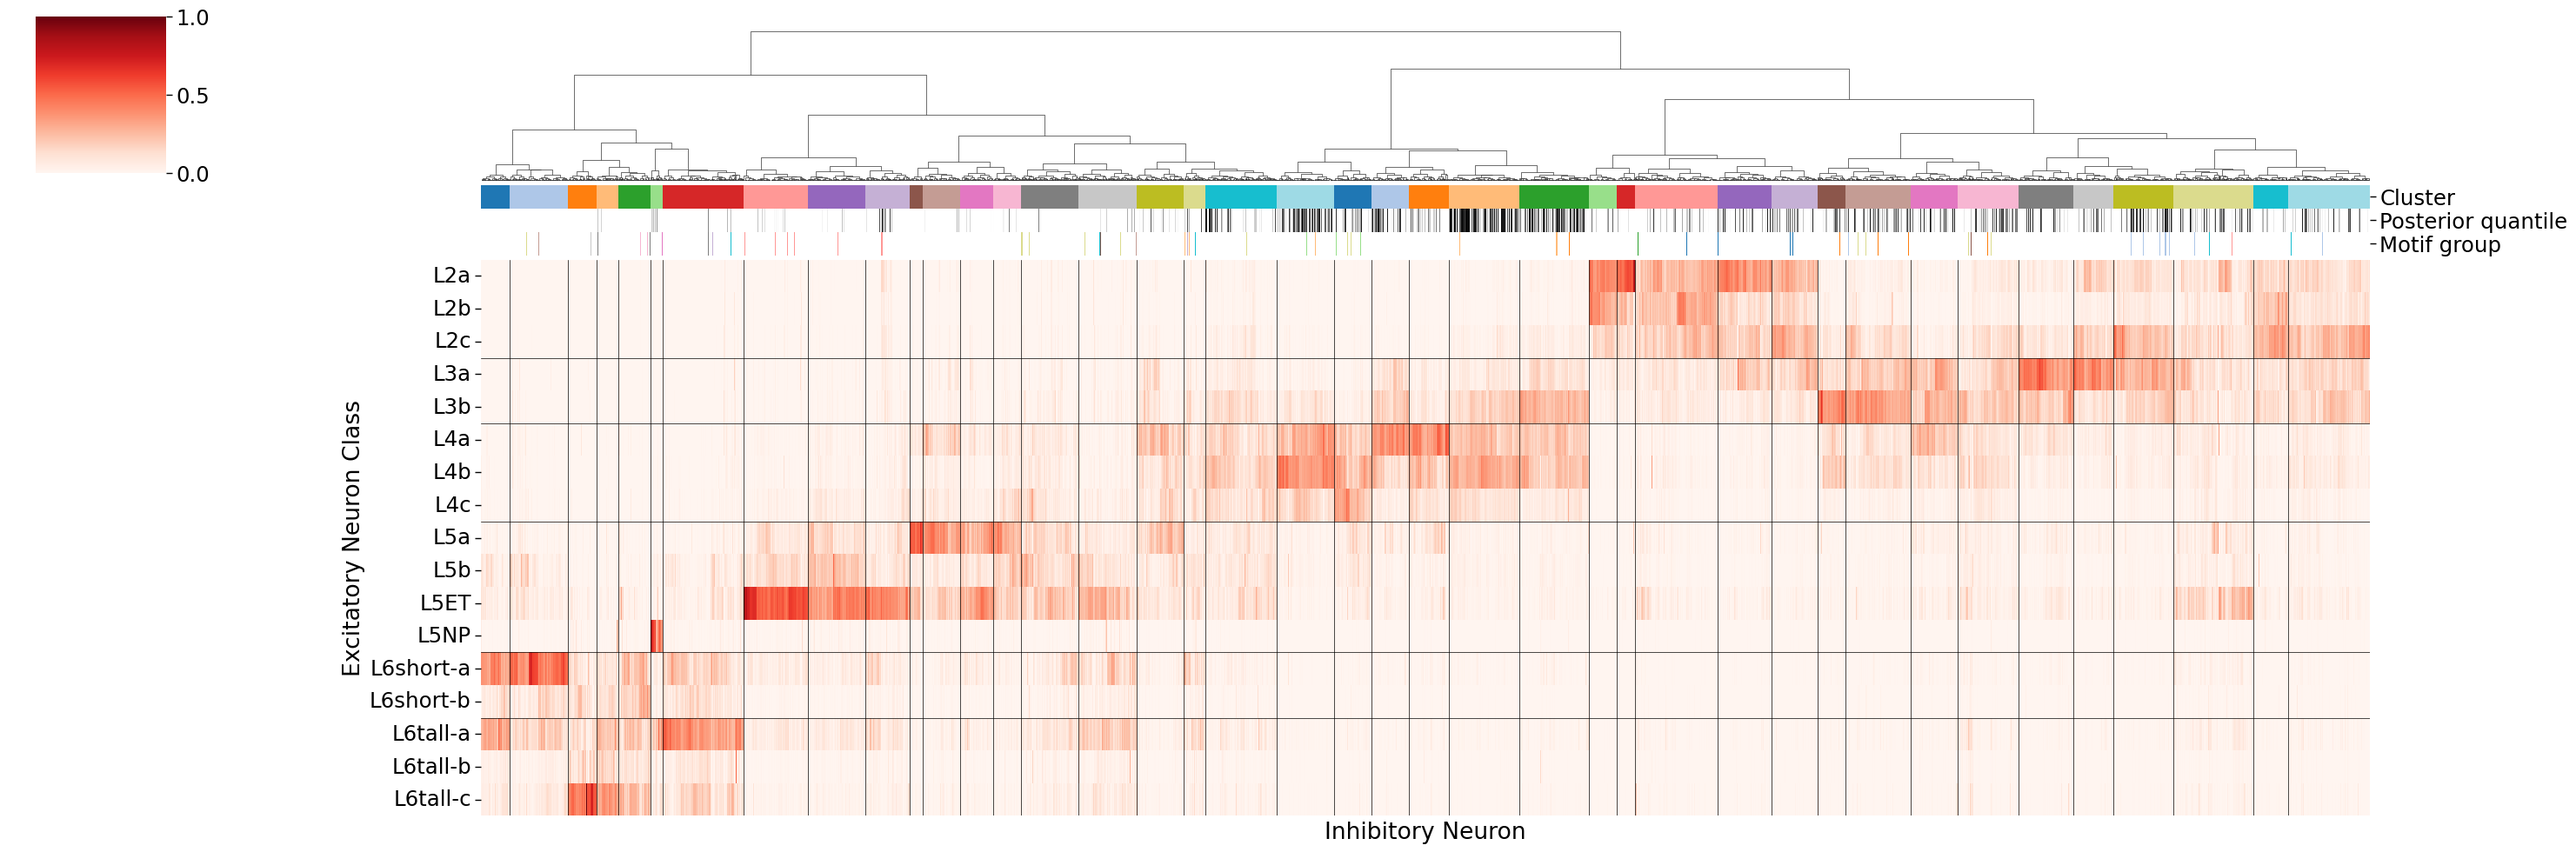
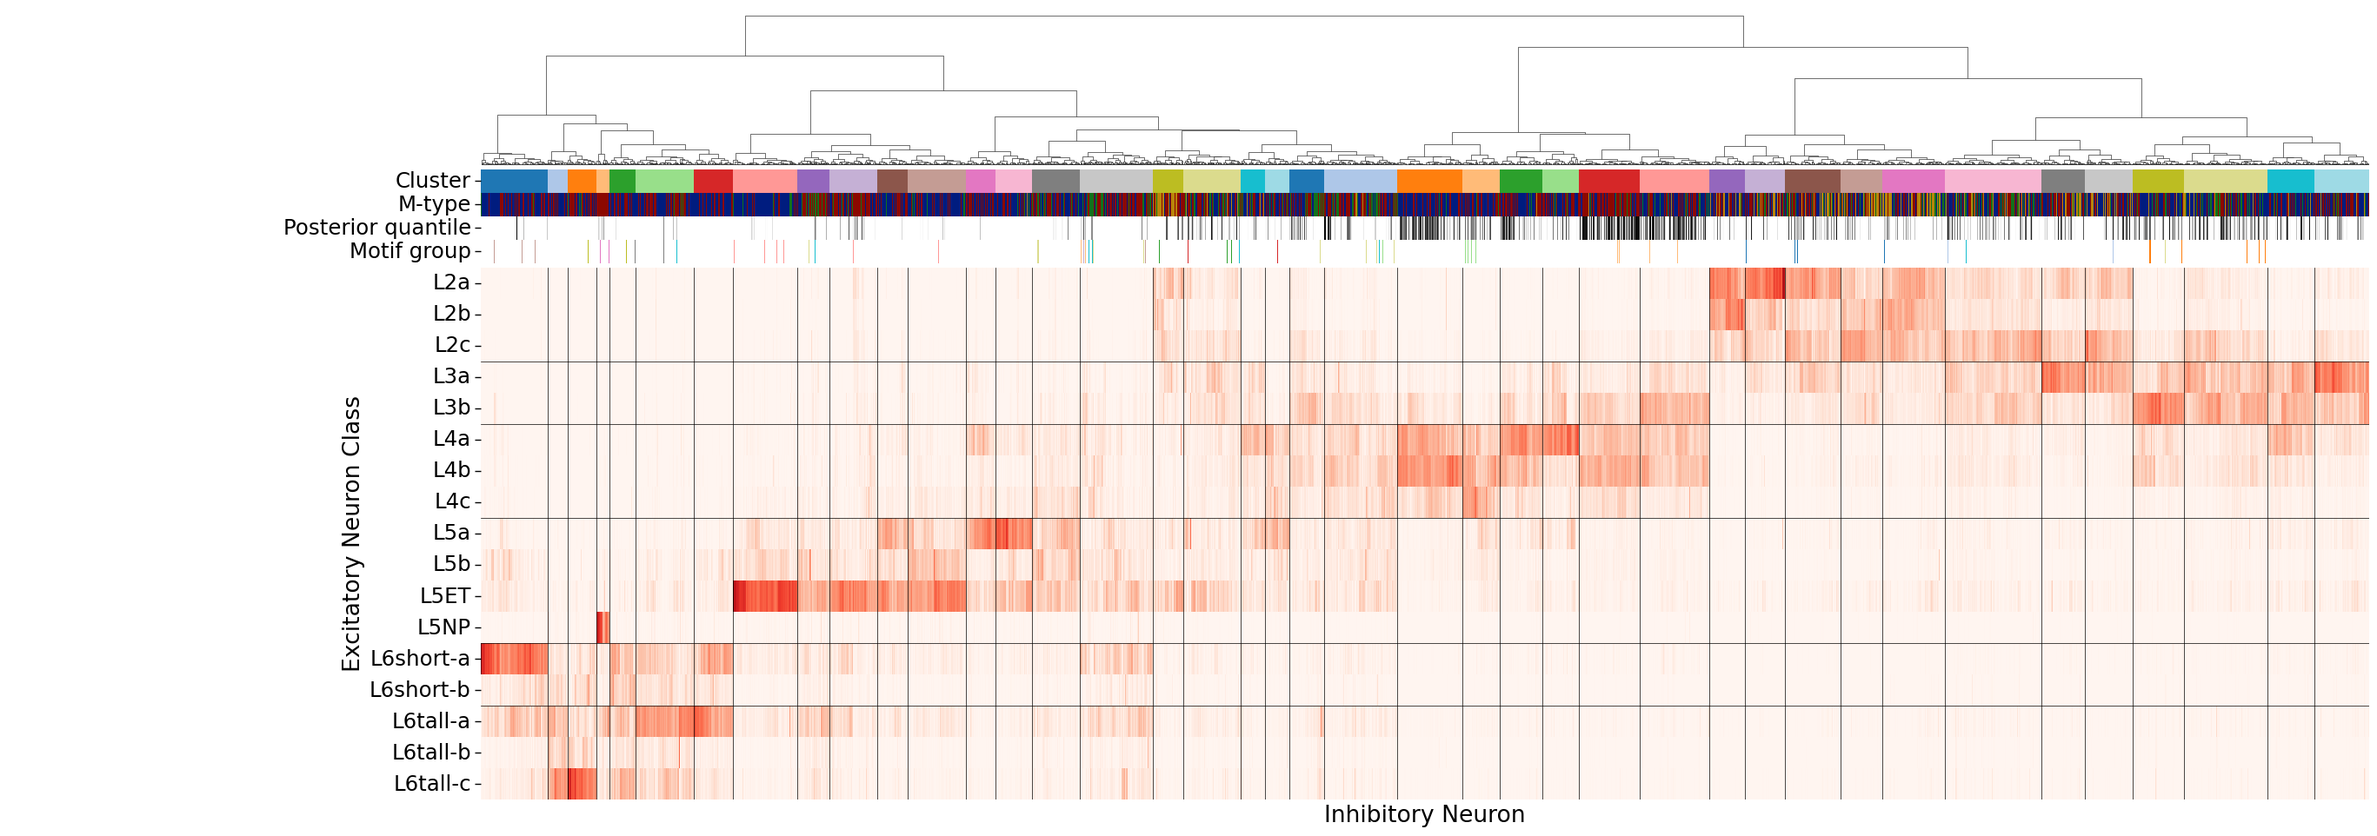
stash

diff --git a/experiments/state_prediction_heuristics.py b/experiments/state_prediction_heuristics.py
@@ -11,7 +11,6 @@ import numpy as np
 import pandas as pd
 import pyvista as pv
 import seaborn as sns
-from giskard.plot import MatrixGrid
 from joblib import Parallel, delayed
 from matplotlib.colors import LinearSegmentedColormap, ListedColormap, Normalize
 from mpl_toolkits.axes_grid1 import make_axes_locatable
@@ -34,9 +33,9 @@ from sklearn.preprocessing import QuantileTransformer
 from tqdm import tqdm
 from tqdm_joblib import tqdm_joblib
 
-from pkg.constants import MTYPES_TABLE, OUT_PATH
+from pkg.constants import OUT_PATH
 from pkg.plot import savefig, set_context
-from pkg.utils import load_casey_palette, load_manifest, load_mtypes, start_client
+from pkg.utils import load_manifest, load_mtypes, start_client
 
 # %%
 
@@ -720,7 +719,6 @@ y_scores = lda.decision_function(X)
 fig, ax = plt.subplots(figsize=(6, 6))
 sns.histplot(y_scores, ax=ax)
 
-
 qt = QuantileTransformer(n_quantiles=100, output_distribution="uniform")
 qt.fit(y_scores.reshape(-1, 1))
 
@@ -732,13 +730,6 @@ sns.move_legend(ax, loc="upper left", title="Euc. distance < 0.2")
 ax.set(xlabel="Log posterior ratio")
 ax.axvline(0, color="black", lw=1, ls="--")
 savefig("lda_decision_function", fig, file_name, doc_save=True)
-
-# %%
-
-y_posteriors = lda.predict_proba(X)[:, 1]
-
-fig, ax = plt.subplots(figsize=(6, 6))
-sns.histplot(y_posteriors, ax=ax)
 
 # %%
 precisions, recalls, thresholds = precision_recall_curve(
@@ -819,15 +810,10 @@ for file in tqdm(files):
         post_synapses.append(chunk_post_synapses)
 post_synapses = pd.concat(post_synapses)
 
-# %%
 pre_synapses["post_mtype"] = pre_synapses["post_pt_root_id"].map(mtypes["cell_type"])
-
-# %%
 
 pre_synapses = pre_synapses.query("pre_pt_root_id != post_pt_root_id")
 post_synapses = post_synapses.query("pre_pt_root_id != post_pt_root_id")
-
-# %%
 
 n_pre_synapses = (
     pre_synapses.groupby("pre_pt_root_id").size().reindex(all_inhib_roots).fillna(0)
@@ -879,18 +865,6 @@ sns.histplot(x=y_scores_new, ax=ax)
 ax.set_xlabel("Log posterior ratio")
 
 savefig("new_log_posterior_ratio", fig, file_name, doc_save=True)
-
-# %%
-X_trans_new = lda.transform(X_new)
-
-remapped_y = np.vectorize({True: "old", False: "old"}.get)(y)
-labels = np.array(remapped_y.tolist() + ["new"] * len(X_new))
-
-X_trans_combined = np.concatenate((X_trans, X_trans_new), axis=0).ravel()
-
-fig, ax = plt.subplots(figsize=(6, 6))
-
-sns.histplot(x=X_trans_new.ravel(), ax=ax)
 
 # %%
 
@@ -1015,7 +989,17 @@ pre_synapses["pre_log_odds_quant"] = pre_synapses["pre_pt_root_id"].map(
 # meta model thingy
 # include them in the clustering regardless of the posterior
 # see what cluster centroids look like relative to these cells
+# %%
 
+from giskard.plot import MatrixGrid
+
+from pkg.utils import load_casey_palette, load_mtypes
+
+manifest = load_manifest()
+
+ctypes = manifest["ctype"]
+
+casey_palette = load_casey_palette()
 
 # %%
 
@@ -1060,8 +1044,6 @@ label_order = [
 
 props_by_mtype = props_by_mtype.loc[:, label_order]
 
-sns.clustermap(props_by_mtype.T, xticklabels=False, row_cluster=False, figsize=(20, 10))
-
 # %%
 
 method = "ward"
@@ -1088,10 +1070,6 @@ label_ranking = means.mul(means.columns).sum(axis=1).sort_values()
 
 new_label_map = dict(zip(labels, label_ranking.index.get_indexer_for(labels)))
 
-# %%
-manifest = load_manifest()
-ctypes = manifest["ctype"]
-
 
 # %%
 
@@ -1100,14 +1078,20 @@ set_context(font_scale=2)
 
 colors = sns.color_palette("tab20", n_colors=k)
 palette = dict(zip(np.arange(1, k + 1), colors))
-color_labels = labels.map(palette).rename("Cluster")
+
+color_labels = labels.map(palette).rename("Cluster").copy()
 
 color_labels = color_labels.to_frame()
+
+color_labels["M-type"] = (
+    color_labels.index.to_series().map(mtypes["cell_type"]).map(casey_palette)
+)
+
 color_labels["Posterior quantile"] = labeled_inhib_features.loc[
     color_labels.index, "log_odds_quant"
 ]
 
-norm = Normalize(vmin=0.7, vmax=1)
+norm = Normalize(vmin=threshold, vmax=1)
 
 # colormap that is increasing reds from 0 to 1
 colors = [(1, 1, 1), (0, 0, 0)]
@@ -1119,15 +1103,16 @@ color_labels["Posterior quantile"] = color_labels["Posterior quantile"].map(
 
 color_labels["Motif group"] = color_labels.index.to_series().map(ctypes).map(palette)
 
-
 cgrid = sns.clustermap(
     props_by_mtype.T,
     cmap="Reds",
-    figsize=(30, 10),
+    figsize=(25, 10),
     row_cluster=False,
     col_colors=color_labels,
     col_linkage=linkage_matrix,
     xticklabels=False,
+    cbar_pos=None,
+    dendrogram_ratio=(0, 0.2),
 )
 ax = cgrid.ax_heatmap
 
@@ -1145,21 +1130,121 @@ for shift in shift_ilocs:
     ax.axvline(shift, color="black", lw=0.5)
 ax.set(xlabel="Inhibitory Neuron", ylabel="Excitatory Neuron Class")
 
+
+# final touches
+label_pos = labels.rename("label").to_frame().copy().loc[props_by_mtype.index]
+label_pos["pos"] = np.arange(len(label_pos))
+positions_by_label = label_pos.groupby("label")["pos"].mean()
+
+ax.set_xticks(positions_by_label.values)
+ax.set_xticklabels(positions_by_label.index)
+
+
 props_by_mtype.drop("label", axis=1, inplace=True)
 
 y_borders = [3, 5, 8, 12, 14]
 for y_border in y_borders:
     ax.axhline(y_border, color="black", lw=0.5)
 
-plt.savefig("excitatory_inhibitory_clustermap_w_tree.png", bbox_inches="tight")
+cgrid.ax_col_colors.yaxis.tick_left()
+
+savefig(
+    f"excitatory_inhibitory_clustermap_w_tree-metric={metric}-method={method}",
+    cgrid.figure,
+    folder="state_prediction_heuristics",
+    doc_save=True,
+)
+
+
+# colors = sns.color_palette("tab20", n_colors=k)
+# palette = dict(zip(np.arange(1, k + 1), colors))
+# color_labels = labels.map(palette).rename("Cluster")
+
+# color_labels = color_labels.to_frame()
+
+# color_labels["M-type"] = (
+#     color_labels.index.to_series().map(mtypes["cell_type"]).map(casey_palette)
+# )
+
+# color_labels["Posterior quantile"] = labeled_inhib_features.loc[
+#     color_labels.index, "log_odds_quant"
+# ]
+
+# norm = Normalize(vmin=threshold, vmax=1)
+
+# # colormap that is increasing reds from 0 to 1
+# colors = [(1, 1, 1), (0, 0, 0)]
+# cmap = LinearSegmentedColormap.from_list("custom", colors)
+
+# color_labels["Posterior quantile"] = color_labels["Posterior quantile"].map(
+#     lambda x: cmap(norm(x))
+# )
+
+# color_labels["Motif group"] = color_labels.index.to_series().map(ctypes).map(palette)
+
+sort_bys = ["label", "log_odds_quant"]
+props_by_mtype["label"] = labels.map(new_label_map)
+props_by_mtype["log_odds_quant"] = labeled_inhib_features.loc[
+    props_by_mtype.index, "log_odds_quant"
+]
+props_by_mtype = props_by_mtype.sort_values(sort_bys)
+props_by_mtype.drop(sort_bys, axis=1, inplace=True)
+color_labels = color_labels.loc[props_by_mtype.index]
+
+cgrid = sns.clustermap(
+    props_by_mtype.T,
+    cmap="Reds",
+    figsize=(25, 10),
+    row_cluster=False,
+    col_colors=color_labels,
+    col_cluster=False,
+    xticklabels=False,
+    cbar_pos=None,
+    dendrogram_ratio=(0, 0),
+)
+ax = cgrid.ax_heatmap
+
+# move the y-axis labels to the left
+ax.yaxis.tick_left()
+ax.set(ylabel="Excitatory Neuron Class", xlabel="Inhibitory Neuron")
+ax.yaxis.set_label_position("left")
+
+props_by_mtype["label"] = labels.map(new_label_map)
+shifts = props_by_mtype["label"] != props_by_mtype["label"].shift()
+shifts.iloc[0] = False
+shifts = shifts[shifts].index
+shift_ilocs = props_by_mtype.index.get_indexer_for(shifts)
+for shift in shift_ilocs:
+    ax.axvline(shift, color="black", lw=0.5)
+ax.set(xlabel="Inhibitory Neuron", ylabel="Excitatory Neuron Class")
+
+
+# final touches
+label_pos = labels.rename("label").to_frame().copy().loc[props_by_mtype.index]
+label_pos["pos"] = np.arange(len(label_pos))
+positions_by_label = label_pos.groupby("label")["pos"].mean()
+
+ax.set_xticks(positions_by_label.values)
+ax.set_xticklabels(positions_by_label.index)
+
+
+props_by_mtype.drop("label", axis=1, inplace=True)
+
+y_borders = [3, 5, 8, 12, 14]
+for y_border in y_borders:
+    ax.axhline(y_border, color="black", lw=0.5)
+
+cgrid.ax_col_colors.yaxis.tick_left()
+
+savefig(
+    f"excitatory_inhibitory_clustermap_sorted-metric={metric}-method={method}",
+    cgrid.figure,
+    folder="state_prediction_heuristics",
+    doc_save=True,
+)
 
 
 # %%
-
-casey_palette = load_casey_palette()
-
-# %%
-mtypes = client.materialize.query_table(MTYPES_TABLE).set_index("pt_root_id")
 
 sort_bys = ["label", "log_odds_quant"]
 props_by_mtype["label"] = labels.map(new_label_map)
@@ -1172,7 +1257,6 @@ props_by_mtype.drop(sort_bys, axis=1, inplace=True)
 mg = MatrixGrid(figsize=(25, 10))
 ax = mg.ax
 sns.heatmap(props_by_mtype.T, cmap="Reds", xticklabels=False, ax=ax)
-
 
 props_by_mtype["label"] = labels.map(new_label_map)
 shifts = props_by_mtype["label"] != props_by_mtype["label"].shift()
@@ -1212,6 +1296,8 @@ mtype_ax = mg.append_axes("top", size="5%", pad=0.05)
 # add the mtype labels
 palette = casey_palette.copy()
 plot_frame = mtypes.loc[props_by_mtype.index]["cell_type"].to_frame().copy()
+
+# def categorical_colormap
 unique_values = np.unique(plot_frame.values)
 value_map = dict(zip(unique_values, np.arange(len(unique_values))))
 plot_frame = plot_frame.replace(value_map)
@@ -1227,6 +1313,7 @@ sns.heatmap(
 )
 mtype_ax.set_ylabel("Mtype", rotation=0, ha="right", va="center")
 mtype_ax.set_xlabel("")
+
 
 # final touches
 label_pos = labels.rename("label").to_frame().copy().loc[props_by_mtype.index]
